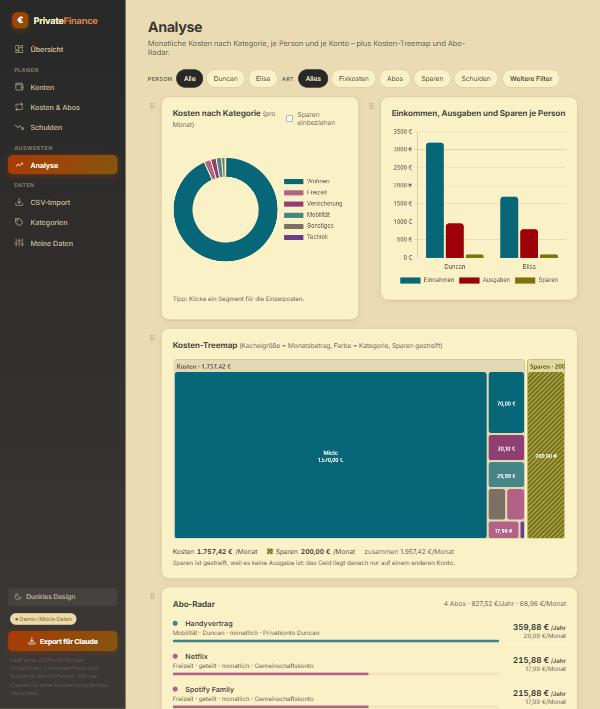
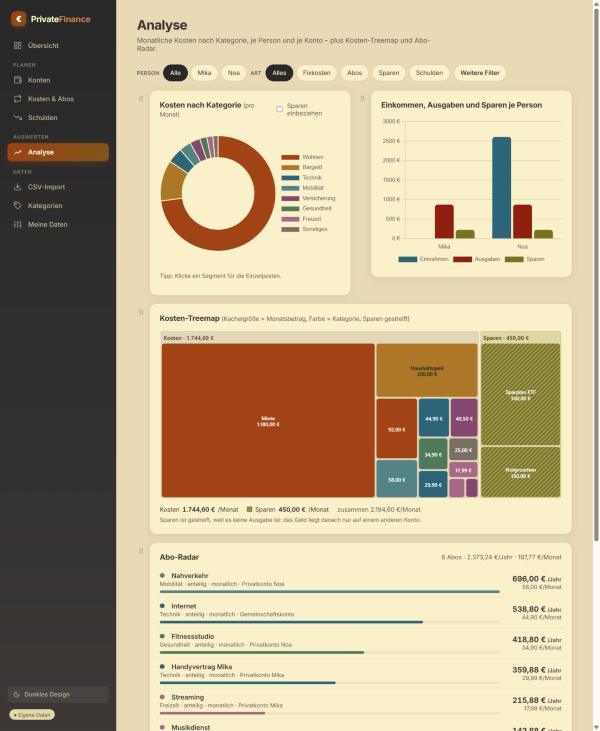
Jede Palette bekommt eigene Farbtöne statt denen des Standards
Der Palettenwechsel wirkte wie ein Filter und nicht wie ein anderer
Entwurf. Gemessen: über alle sieben Paletten blieb jede Kategorie in
einem Band von rund 30 Grad um den Farbton des Standards — Wohnen
überall blau (190°–227°), Freizeit überall magenta (312°–344°), Bargeld
überall orange (14°–41°). Geändert hat sich fast nur die Sättigung, bei
Wohnen von 83 % im Standard auf 40 % in Melange. Gleiches Farbrad,
weniger Sättigung: das ist die Definition eines Filters.

In den vier warmen Paletten trägt jetzt die größte Fläche — Wohnen, und
der erste Kontoplatz — den Leitton der Palette selbst. Das freigewordene
Blau geht an Technik, Bargeld weicht auf Gold aus. Nord und Catppuccin
bleiben unangetastet: ihr Charakter ist kühl bzw. pastellig, dort passt
die Zuordnung schon.

Die Unterscheidbarkeit ist dabei nicht geschrumpft, sondern gewachsen.
Als kleinster CIE76-Abstand je Palette gemessen, hell/dunkel:
Everforest 16,0→20,7 / 9,8→15,9, Gruvbox 14,9→14,9 / 6,8→14,8,
Melange 5,9→13,1 / 6,7→17,9, Flexoki 12,5→16,5 / 8,3→18,0. Der
Standard selbst liegt bei 9,3. Dabei sind nebenbei die handgemischten
Zwischentöne verschwunden, die als Nachbarton fast nicht vom Original
zu trennen waren (Gruvbox dunkel #83a5a4 neben #83A598).

Zweiter Teil: das Farbfeld bei Konten und Kategorien zeigt die
aufgelöste Palettenfarbe an. Ein Druck darauf schrieb bisher einen
festen Hex-Wert, und ab da folgte der Eintrag der Palette nie wieder —
[…]

diff --git a/src/lib/palettes.js b/src/lib/palettes.js
@@ -47,6 +47,23 @@
 //            und die Hinweisflächen.
 //  Sparen ist in keiner Palette rot.
 //
+//  Welcher Farbton auf welchen Platz kommt, entscheidet jede Palette fuer sich.
+//  Vorher bildeten alle die Zuordnung des Standards ab: Wohnen blau, Freizeit
+//  magenta, Bargeld orange — ueber alle Paletten hinweg blieb jede Kategorie in
+//  einem Band von rund 30 Grad, nur die Saettigung sank (Wohnen 83 % im
+//  Standard, 40 % in Melange). Gleiches Farbrad, weniger Saettigung: das wirkt
+//  wie ein Filter ueber demselben Entwurf, nicht wie ein anderer Entwurf. In
+//  den warmen Paletten (Everforest, Gruvbox, Melange, Flexoki) traegt deshalb
+//  die groesste Flaeche — Wohnen, und der erste Kontoplatz — den Leitton der
+//  Palette selbst; das freigewordene Blau geht an Technik, Bargeld weicht auf
+//  Gold aus. Nord und Catppuccin bleiben, wie sie waren: ihr eigener Charakter
+//  IST kuehl beziehungsweise pastellig, dort passt die Zuordnung schon.
+//
+//  Die Grenze dabei ist die Unterscheidbarkeit. Gemessen wird sie als
+//  kleinster CIE76-Abstand zwischen zwei Datenfarben einer Palette; die vier
+//  warmen liegen danach bei mindestens 13,1 (Kategorien) und 15,9 (Konten) —
+//  der Standard selbst kommt auf 9,3 und 18,4.
+//
 //  Die Palette „standard“ ist die gewohnte Ansicht. Ihre Flächen-, Rahmen- und
 //  Textwerte stehen weiterhin in `index.css` und werden hier NICHT überschrieben
 //  (`ui: null`); nur die Datenwerte kommen von hier. Ihre Töne sind dieselben
@@ -127,10 +144,10 @@ const DATA = {
     },
     light: {
       pos: '#616f01', neg: '#d10c08', warn: '#886200', info: '#2b6f94',
-      series: ['#388ebd', '#da52af', '#7d8f01', '#b07e00', '#b662de', '#309770', '#f7423f', '#7c8a79'],
+      series: ['#a85d12', '#388ebd', '#7d8f01', '#b07e00', '#b662de', '#309770', '#f7423f', '#7c8a79'],
       cat: {
-        Wohnen: '#388ebd', 'Mobilität': '#2e939d', Gesundheit: '#309770', Versicherung: '#b662de',
-        Freizeit: '#da52af', Technik: '#8a69df', Sparen: '#7d8f01', Bargeld: '#dc630a',
+        Wohnen: '#a85d12', 'Mobilität': '#2e939d', Gesundheit: '#309770', Versicherung: '#b662de',
+        Freizeit: '#da52af', Technik: '#388ebd', Sparen: '#7d8f01', Bargeld: '#b07e00',
         Sonstiges: '#7c8a79',
       },
       chart: {
@@ -139,10 +156,10 @@ const DATA = {
     },
     dark: {
       pos: '#A7C080', neg: '#eda2a4', warn: '#DBBC7F', info: '#88c0b8',
-      series: ['#7FBBB3', '#D699B6', '#A7C080', '#DBBC7F', '#cb99d6', '#83C092', '#E67E80', '#88958c'],
+      series: ['#E69875', '#7FBBB3', '#A7C080', '#DBBC7F', '#cb99d6', '#83C092', '#E67E80', '#88958c'],
       cat: {
-        Wohnen: '#7FBBB3', 'Mobilität': '#7fb3bb', Gesundheit: '#83C092', Versicherung: '#cb99d6',
-        Freizeit: '#D699B6', Technik: '#af99d6', Sparen: '#A7C080', Bargeld: '#E69875',
+        Wohnen: '#E69875', 'Mobilität': '#B9DCD9', Gesundheit: '#83C092', Versicherung: '#cb99d6',
+        Freizeit: '#D699B6', Technik: '#7FBBB3', Sparen: '#A7C080', Bargeld: '#DBBC7F',
         Sonstiges: '#88958c',
       },
       chart: {
@@ -178,10 +195,10 @@ const DATA = {
     },
     light: {
       pos: '#66620c', neg: '#9D0006', warn: '#84560f', info: '#076678',
-      series: ['#076678', '#B16286', '#79740E', '#ac7013', '#8F3F71', '#427B58', '#9D0006', '#7C6F64'],
+      series: ['#AF3A03', '#076678', '#79740E', '#B57614', '#8F3F71', '#427B58', '#9D0006', '#7C6F64'],
       cat: {
-        Wohnen: '#076678', 'Mobilität': '#458588', Gesundheit: '#427B58', Versicherung: '#8F3F71',
-        Freizeit: '#B16286', Technik: '#683f8f', Sparen: '#79740E', Bargeld: '#AF3A03',
+        Wohnen: '#AF3A03', 'Mobilität': '#458588', Gesundheit: '#427B58', Versicherung: '#8F3F71',
+        Freizeit: '#B16286', Technik: '#076678', Sparen: '#79740E', Bargeld: '#B57614',
         Sonstiges: '#7C6F64',
       },
       chart: {
@@ -190,10 +207,10 @@ const DATA = {
     },
     dark: {
       pos: '#B8BB26', neg: '#fc7e6f', warn: '#FABD2F', info: '#8bab9f',
-      series: ['#83A598', '#D3869B', '#B8BB26', '#FABD2F', '#d086d3', '#8EC07C', '#FB4934', '#A89984'],
+      series: ['#FE8019', '#83A598', '#B8BB26', '#FABD2F', '#d086d3', '#8EC07C', '#FB4934', '#A89984'],
       cat: {
-        Wohnen: '#83A598', 'Mobilität': '#83a5a4', Gesundheit: '#8EC07C', Versicherung: '#d086d3',
-        Freizeit: '#D3869B', Technik: '#ac86d3', Sparen: '#B8BB26', Bargeld: '#FE8019',
+        Wohnen: '#FE8019', 'Mobilität': '#AFC9C2', Gesundheit: '#8EC07C', Versicherung: '#d086d3',
+        Freizeit: '#D3869B', Technik: '#83A598', Sparen: '#B8BB26', Bargeld: '#FABD2F',
         Sonstiges: '#A89984',
       },
       chart: {
@@ -331,10 +348,10 @@ const DATA = {
     },
     light: {
       pos: '#3A684A', neg: '#BF0021', warn: '#7C5800', info: '#3D6568',
-      series: ['#465AA4', '#904180', '#3A684A', '#8B6300', '#6A4D92', '#3D6568', '#BF0021', '#7D6658'],
+      series: ['#8A4A18', '#465AA4', '#3A684A', '#A06D00', '#7A4A8E', '#3D6568', '#BF0021', '#7D6658'],
       cat: {
-        Wohnen: '#465AA4', 'Mobilität': '#3F6286', Gesundheit: '#3A684A', Versicherung: '#7A4A8E',
-        Freizeit: '#904180', Technik: '#5A58A0', Sparen: '#5C6B22', Bargeld: '#9A4B00',
+        Wohnen: '#8A4A18', 'Mobilität': '#3F6286', Gesundheit: '#3A684A', Versicherung: '#7A4A8E',
+        Freizeit: '#904180', Technik: '#465AA4', Sparen: '#5C6B22', Bargeld: '#A06D00',
         Sonstiges: '#7D6658',
       },
       chart: {
@@ -343,10 +360,10 @@ const DATA = {
     },
     dark: {
       pos: '#85B695', neg: '#DD9386', warn: '#EBC06D', info: '#89B3B6',
-      series: ['#A3A9CE', '#CF9BC2', '#85B695', '#EBC06D', '#B9A2C8', '#89B3B6', '#D47766', '#A9937C'],
+      series: ['#E49B5D', '#A3A9CE', '#85B695', '#EBC06D', '#CBA0D2', '#89B3B6', '#D47766', '#A9937C'],
       cat: {
-        Wohnen: '#8FB0C2', 'Mobilität': '#89B3B6', Gesundheit: '#85B695', Versicherung: '#C49BCB',
-        Freizeit: '#CF9BC2', Technik: '#AAA2CF', Sparen: '#B3BB83', Bargeld: '#E49B5D',
+        Wohnen: '#E49B5D', 'Mobilität': '#89B3B6', Gesundheit: '#85B695', Versicherung: '#B188CB',
+        Freizeit: '#CF9BC2', Technik: '#A3A9CE', Sparen: '#B3BB83', Bargeld: '#EBC06D',
         Sonstiges: '#A9937C',
       },
       chart: {
@@ -382,10 +399,10 @@ const DATA = {
     },
     light: {
       pos: '#536907', neg: '#AF3029', warn: '#664D01', info: '#205EA6',
-      series: ['#205EA6', '#A02F6F', '#536907', '#8E6B01', '#5E409D', '#24837B', '#AF3029', '#6F6E69'],
+      series: ['#9D4310', '#205EA6', '#536907', '#AD8301', '#5E409D', '#24837B', '#AF3029', '#6F6E69'],
       cat: {
-        Wohnen: '#205EA6', 'Mobilität': '#2F968D', Gesundheit: '#1C6C66', Versicherung: '#5E409D',
-        Freizeit: '#A02F6F', Technik: '#735EB5', Sparen: '#66800B', Bargeld: '#BC5215',
+        Wohnen: '#9D4310', 'Mobilität': '#2F968D', Gesundheit: '#1C6C66', Versicherung: '#5E409D',
+        Freizeit: '#A02F6F', Technik: '#205EA6', Sparen: '#66800B', Bargeld: '#AD8301',
         Sonstiges: '#6F6E69',
       },
       chart: {
@@ -394,10 +411,10 @@ const DATA = {
     },
     dark: {
       pos: '#A0AF54', neg: '#F89A8A', warn: '#D0A215', info: '#5ABDAC',
-      series: ['#4385BE', '#CE5D97', '#879A39', '#D0A215', '#8B7EC8', '#3AA99F', '#D14D41', '#9F9D96'],
+      series: ['#DA702C', '#4385BE', '#879A39', '#D0A215', '#8B7EC8', '#3AA99F', '#D14D41', '#9F9D96'],
       cat: {
-        Wohnen: '#4385BE', 'Mobilität': '#5ABDAC', Gesundheit: '#3AA99F', Versicherung: '#8B7EC8',
-        Freizeit: '#CE5D97', Technik: '#A699D0', Sparen: '#879A39', Bargeld: '#DA702C',
+        Wohnen: '#DA702C', 'Mobilität': '#87D3C3', Gesundheit: '#3AA99F', Versicherung: '#8B7EC8',
+        Freizeit: '#CE5D97', Technik: '#4385BE', Sparen: '#879A39', Bargeld: '#D0A215',
         Sonstiges: '#9F9D96',
       },
       chart: {

diff --git a/src/pages/Categories.jsx b/src/pages/Categories.jsx
@@ -2,7 +2,7 @@ import { useMemo, useState } from 'react'
 import { CATEGORIES, KEYWORD_RULES, SAVINGS_CATEGORY, FALLBACK_CATEGORY } from '../lib/categories.js'
 import { monthlyByCategory } from '../lib/recurring.js'
 import { formatEUR } from '../lib/normalize.js'
-import { getCategories, categoryLabel, categoryColor, addCategory, updateCategory, removeCategory, isCustomCategory } from '../lib/categoryStore.js'
+import { getCategories, categoryLabel, categoryColor, addCategory, updateCategory, removeCategory, isCustomCategory, hatEigeneFarbe, farbeZuruecksetzen } from '../lib/categoryStore.js'
 
 export default function Categories({ data, overrides, onResetAll, onClearOne }) {
   const itemsById = {}
@@ -28,6 +28,13 @@ export default function Categories({ data, overrides, onResetAll, onClearOne }) 
   function editColor(id, color) {
     updateCategory(id, { color })
     setList((l) => l.map((c) => (c.id === id ? { ...c, color } : c)))
+  }
+  // Zurueck zur Palettenfarbe. Noetig, weil das Farbfeld die aufgeloeste
+  // Palettenfarbe anzeigt: ein Druck darauf legt sie als eigene Farbe fest,
+  // und die Kategorie folgt der Palette danach nicht mehr.
+  function farbeZurueck(id) {
+    farbeZuruecksetzen(id)
+    setList(getCategories())
   }
   function addNew() {
     addCategory('Neue Kategorie', categoryColor(FALLBACK_CATEGORY))
@@ -93,7 +100,14 @@ export default function Categories({ data, overrides, onResetAll, onClearOne }) 
             <tbody>
               {list.map((c) => (
                 <tr key={c.id}>
-                  <td data-label="Farbe"><input type="color" className="color-input" value={c.color} onChange={(e) => editColor(c.id, e.target.value)} /></td>
+                  <td data-label="Farbe">
+                    <div className="farbwahl">
+                      <input type="color" className="color-input" value={c.color} onChange={(e) => editColor(c.id, e.target.value)} />
+                      {hatEigeneFarbe(c.id) && (
+                        <button type="button" className="farb-zurueck" title="Wieder der Palette folgen" onClick={() => farbeZurueck(c.id)}>↺</button>
+                      )}
+                    </div>
+                  </td>
                   <td data-label="Name"><input value={c.label} onChange={(e) => editLabel(c.id, e.target.value)} /></td>
                   <td data-label="" style={{ whiteSpace: 'nowrap' }}>
                     {!isCustomCategory(c.id) && <span className="pill fix">Standard</span>}

diff --git a/src/pages/Settings.jsx b/src/pages/Settings.jsx
@@ -3,7 +3,7 @@ import RecurringEditor from '../components/RecurringEditor.jsx'
 import { useMedia } from '../lib/useMedia.js'
 import SortTh from '../components/SortTh.jsx'
 import { orderToForm, formToOrder, newOrderId, parseAmountDE } from '../lib/orderForm.js'
-import { accountColor, autoColorSlot } from '../lib/accountColors.js'
+import { accountColor, autoColorSlot, autoSlotOf } from '../lib/accountColors.js'
 import { PALETTES } from '../lib/palettes.js'
 import { sortRows, nextSortState } from '../lib/sorting.js'
 import { downloadBackup, parseBackup, restoreBackup } from '../lib/backup.js'
@@ -303,7 +303,24 @@ export default function Settings({
             <tbody>
               {sortedAccounts.map((a) => (
                 <tr key={a.id}>
-                  <td data-label="Farbe"><input type="color" className="color-input" value={accountColor(a, accounts)} onChange={(e) => setRow('accounts', a.id, 'color', e.target.value)} /></td>
+                  <td data-label="Farbe">
+                    <div className="farbwahl">
+                      <input type="color" className="color-input" value={accountColor(a, accounts)} onChange={(e) => setRow('accounts', a.id, 'color', e.target.value)} />
+                      {/* Das Feld oben zeigt die aufgeloeste Palettenfarbe. Ein Druck darauf
+                          schreibt einen festen Hex-Wert - ab da folgt das Konto der Palette
+                          nicht mehr. Ohne diesen Knopf gaebe es keinen Weg zurueck. */}
+                      {autoSlotOf(a.color) === null && (
+                        <button
+                          type="button"
+                          className="farb-zurueck"
+                          title="Wieder der Palette folgen"
+                          onClick={() => setRow('accounts', a.id, 'color', autoColorSlot(accounts.findIndex((x) => x.id === a.id)))}
+                        >
+                          ↺
+                        </button>
+                      )}
+                    </div>
+                  </td>
                   <td data-label="Name"><input value={a.name} onChange={(e) => setRow('accounts', a.id, 'name', e.target.value)} /></td>
                   <td data-label="Inhaber"><input value={a.owner} placeholder={a.type === 'personal' ? 'z. B. Elisa' : 'Gemeinsam'} onChange={(e) => setRow('accounts', a.id, 'owner', e.target.value)} /></td>
                   <td data-label="Typ">

diff --git a/src/index.css b/src/index.css
@@ -782,6 +782,15 @@ tbody td:first-child { color: var(--text); }
 .acct-dot { display: inline-block; width: 10px; height: 10px; border-radius: 50%; margin-right: 7px; flex-shrink: 0; vertical-align: middle; }
 td .acct-dot { vertical-align: baseline; }
 .color-input { width: 46px; min-width: 46px; height: 30px; padding: 2px; border: 1px solid var(--border); border-radius: 7px; background: var(--input-bg); cursor: pointer; }
+/* Zuruecksetzen auf die Palettenfarbe. Steht nur da, wenn es etwas
+   zurueckzunehmen gibt - sonst waere jede Zeile voller Knoepfe. */
+.farbwahl { display: flex; align-items: center; gap: 6px; }
+.farb-zurueck {
+  width: 26px; min-width: 26px; height: 26px; padding: 0; line-height: 1;
+  border: 1px solid var(--border); border-radius: 7px; background: var(--input-bg);
+  color: var(--text-muted); font-size: 15px; cursor: pointer;
+}
+.farb-zurueck:hover { background: var(--surface-2); color: var(--text); }
 .ct-edit {
   cursor: pointer; display: inline-flex; align-items: center; gap: 8px;
   padding: 4px 8px; margin: -4px -8px; border-radius: 7px; min-height: 28px;

diff --git a/src/lib/categoryStore.js b/src/lib/categoryStore.js
@@ -92,6 +92,25 @@ export function updateCategory(id, patch) {
   persist()
 }
 
+// Hat eine vordefinierte Kategorie eine selbst gesetzte Farbe? Nur dann gibt es
+// etwas zurueckzunehmen - eigene Kategorien haben keine Palettenfarbe, die
+// wieder greifen koennte.
+export function hatEigeneFarbe(id) {
+  return !isCustomCategory(id) && overrides[id]?.color != null
+}
+
+// Die selbst gesetzte Farbe wieder entfernen, damit die Kategorie der Palette
+// folgt. `updateCategory(id, { color: undefined })` taugt dafuer nicht: der
+// Schluessel bliebe stehen und wuerde die Palettenfarbe mit undefined
+// ueberschreiben.
+export function farbeZuruecksetzen(id) {
+  if (!overrides[id]) return
+  const { color, ...rest } = overrides[id]
+  if (Object.keys(rest).length) overrides[id] = rest
+  else delete overrides[id]
+  persist()
+}
+
 // Nur eigene Kategorien können vollständig entfernt werden (Standard-Kategorien
 // bleiben erhalten, da Schlüsselwort-Regeln und die Sparen-Erkennung sie referenzieren).
 export function removeCategory(id) {
